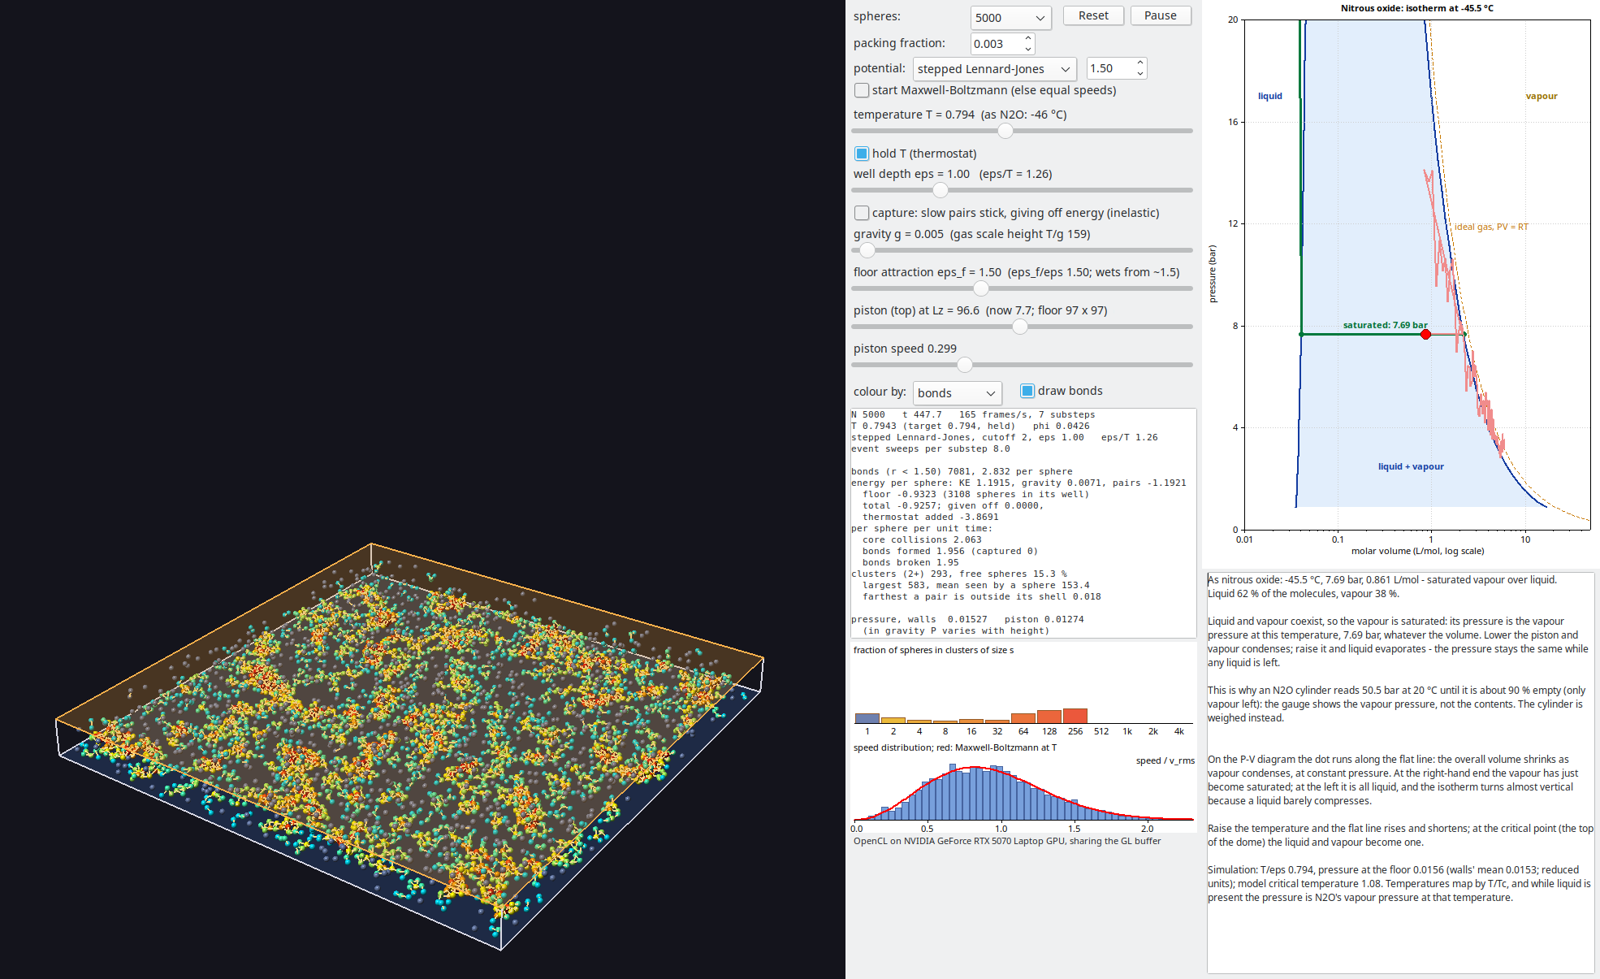
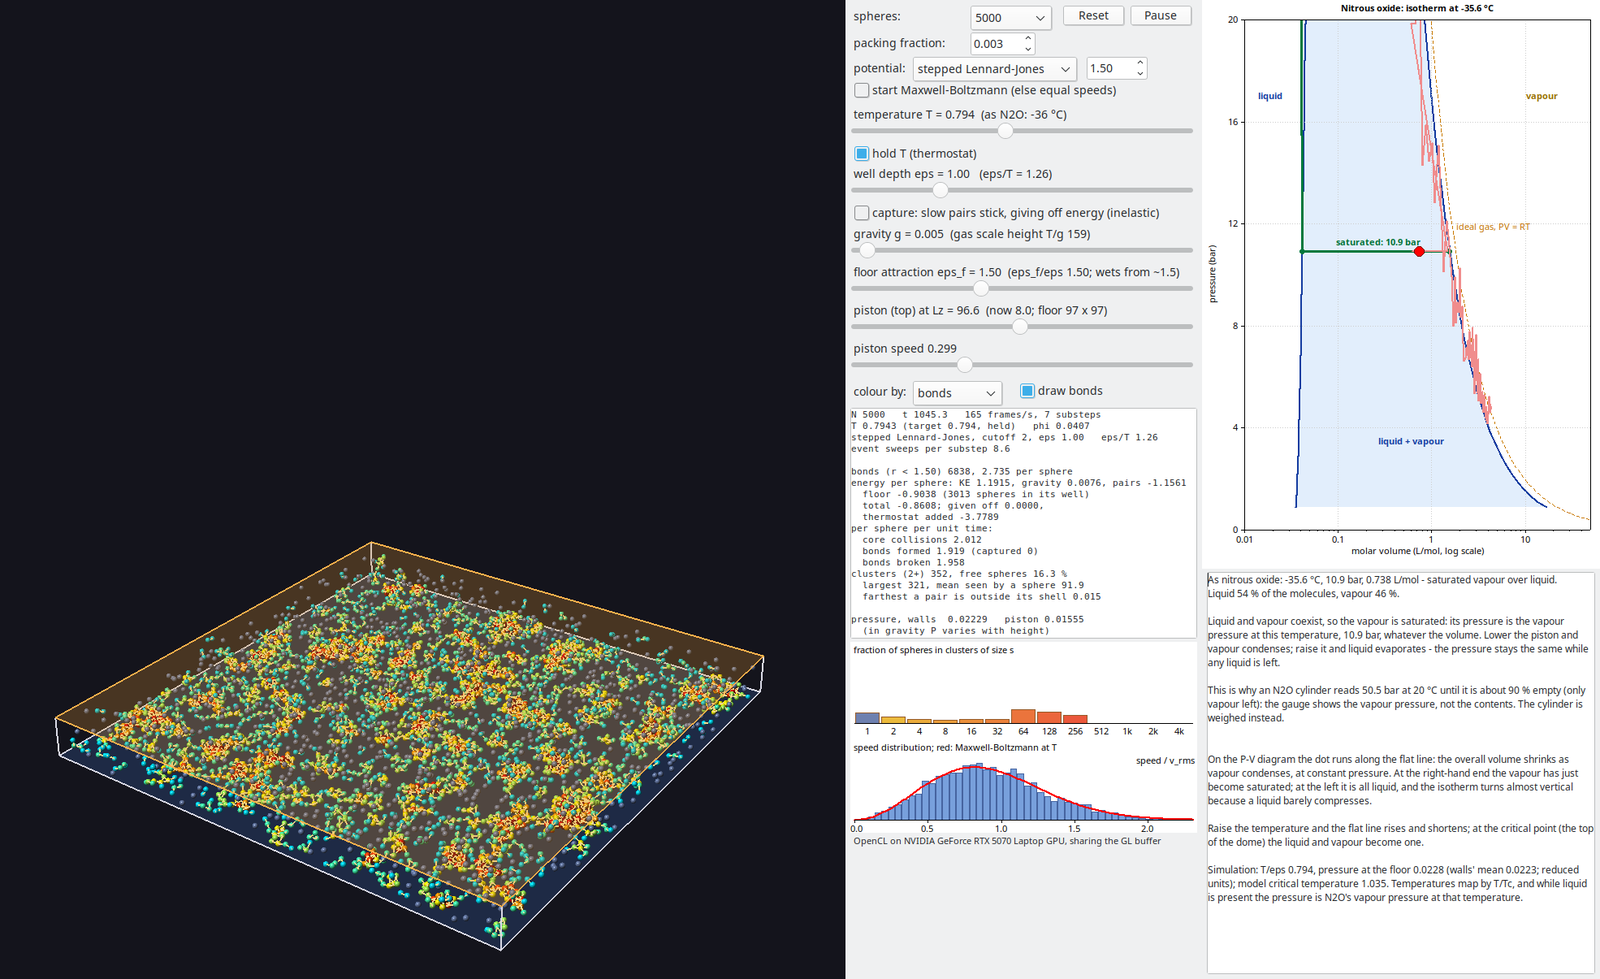
README: N2OPhase section and a new screenshot with the corrected mapping
The top-level README gets a section on N2O/ with a fresh screenshot of
compressed vapour over liquid at -35.6 °C (T/eps 0.794), dot on the flat
line at 10.9 bar. It replaces docs/n2o-saturated.png, taken with the old
Tc of 1.08. The N2O README's other two captions give the current
readings and note that their panels predate the correction.

The info text now shows the model's critical temperature to three
decimals (1.035, not 1.04).

diff --git a/N2O/README.md b/N2O/README.md
@@ -13,24 +13,30 @@ however far the piston goes. This is the difference between an ideal gas
 and a saturated vapour, and the reason a cylinder gauge reads the vapour
 pressure, not the contents.
 
+The first and third screenshots predate the critical-temperature correction
+(model Tc 1.035, not 1.08), so their panels show the old temperatures and
+pressures. The captions give what the same states read as now.
+
 ![An unsaturated N2O vapour](../docs/n2o-vapour.png)
 
 *The default start, part-way through a slow compression: 5,000 spheres as a
-dilute vapour at −45.5 °C (as N₂O), still unsaturated. The trail follows the dashed
+dilute vapour at T/ε 0.794, −35.6 °C as N₂O (the panel shows −45.5 °C),
+still unsaturated. The trail follows the dashed
 ideal-gas isotherm.*
 
 ![The same after compression: saturated vapour over liquid](../docs/n2o-saturated.png)
 
 *After the piston has compressed it to a twelfth of its height: liquid has
-formed on the floor, and the dot is on the flat line at 7.7 bar, N₂O's vapour
-pressure at −45.5 °C, having run along it to 61 % liquid. The loop above
+formed on the floor, and the dot is on the flat line at 10.9 bar, N₂O's
+vapour pressure at −35.6 °C, having run along it to 54 % liquid. The loop above
 the dome is a supersaturated vapour: it ran past the saturation point while droplets nucleated, then dropped onto the line.*
 
-![At 20 °C: the cylinder's state](../docs/n2o-cylinder.png)
+![Near the critical point: liquid and vapour](../docs/n2o-cylinder.png)
 
-*At 20.1 °C (T/ε 1.023) and a higher packing fraction: liquid and vapour
-at 50.7 bar, as in a cylinder. Near the critical point (36.4 °C) the flat
-part of the isotherm is short and the liquid and vapour look much alike.*
+*At T/ε 1.023, now 32.9 °C (the panel shows 20.1 °C), and a higher packing
+fraction: liquid and vapour at 67 bar (the panel shows 50.7). This close to
+the critical point (36.4 °C) the flat part of the isotherm is short and the
+liquid and vapour look much alike. A cylinder at 20 °C is T/ε 0.98.*
 
 ## Build and run
 

diff --git a/README.md b/README.md
@@ -10,6 +10,16 @@ The sticky version in [`Sticky/`](Sticky/) adds attraction, binding and gravity:
 
 ![StickySpheres: a Lennard-Jones liquid wetting the floor under its vapour](docs/sticky-pool.png)
 
+### N2OPhase: nitrous oxide
+
+[`N2O/`](N2O/) (N2OPhase) is a teaching aid built on the sticky spheres. It maps them onto nitrous oxide by corresponding states and puts a red dot for the simulation's state on N₂O's P–V isotherm. Compress a vapour with the piston and the dot follows Boyle's law up to the vapour pressure; once liquid forms the pressure stops rising and the dot runs along the flat line. That is why a cylinder gauge reads the vapour pressure, not the contents.
+
+![N2OPhase: N2O vapour compressed until liquid forms, with the state on the P-V isotherm](docs/n2o-saturated.png)
+
+*5,000 spheres at T/ε 0.794 (−35.6 °C as N₂O), compressed to a twelfth of their height: liquid on the floor, saturated vapour above, and the dot on the flat line at 10.9 bar, N₂O's vapour pressure. The trail shows the compression run along the ideal-gas curve and overshoot slightly as supersaturated vapour before droplets formed.*
+
+The model's critical point was measured with 1,000,000 spheres: [`N2O/n2o_isotherms.png`](N2O/n2o_isotherms.png) shows its isotherms at 0 °C, 20 °C, the critical temperature and 100 °C against N₂O's measured dome. See the [N2O README](N2O/README.md).
+
 ## Build and run
 
 ```
@@ -70,4 +80,4 @@ Command line: `--n=`, `--phi=`, `--maxwell`, `--hold`, `--speed=`, `--compress=<
 
 ## Licence
 
-MIT; see [LICENSE](LICENSE). Covers `Sticky/` too.
+MIT; see [LICENSE](LICENSE). Covers `Sticky/` and `N2O/` too.
